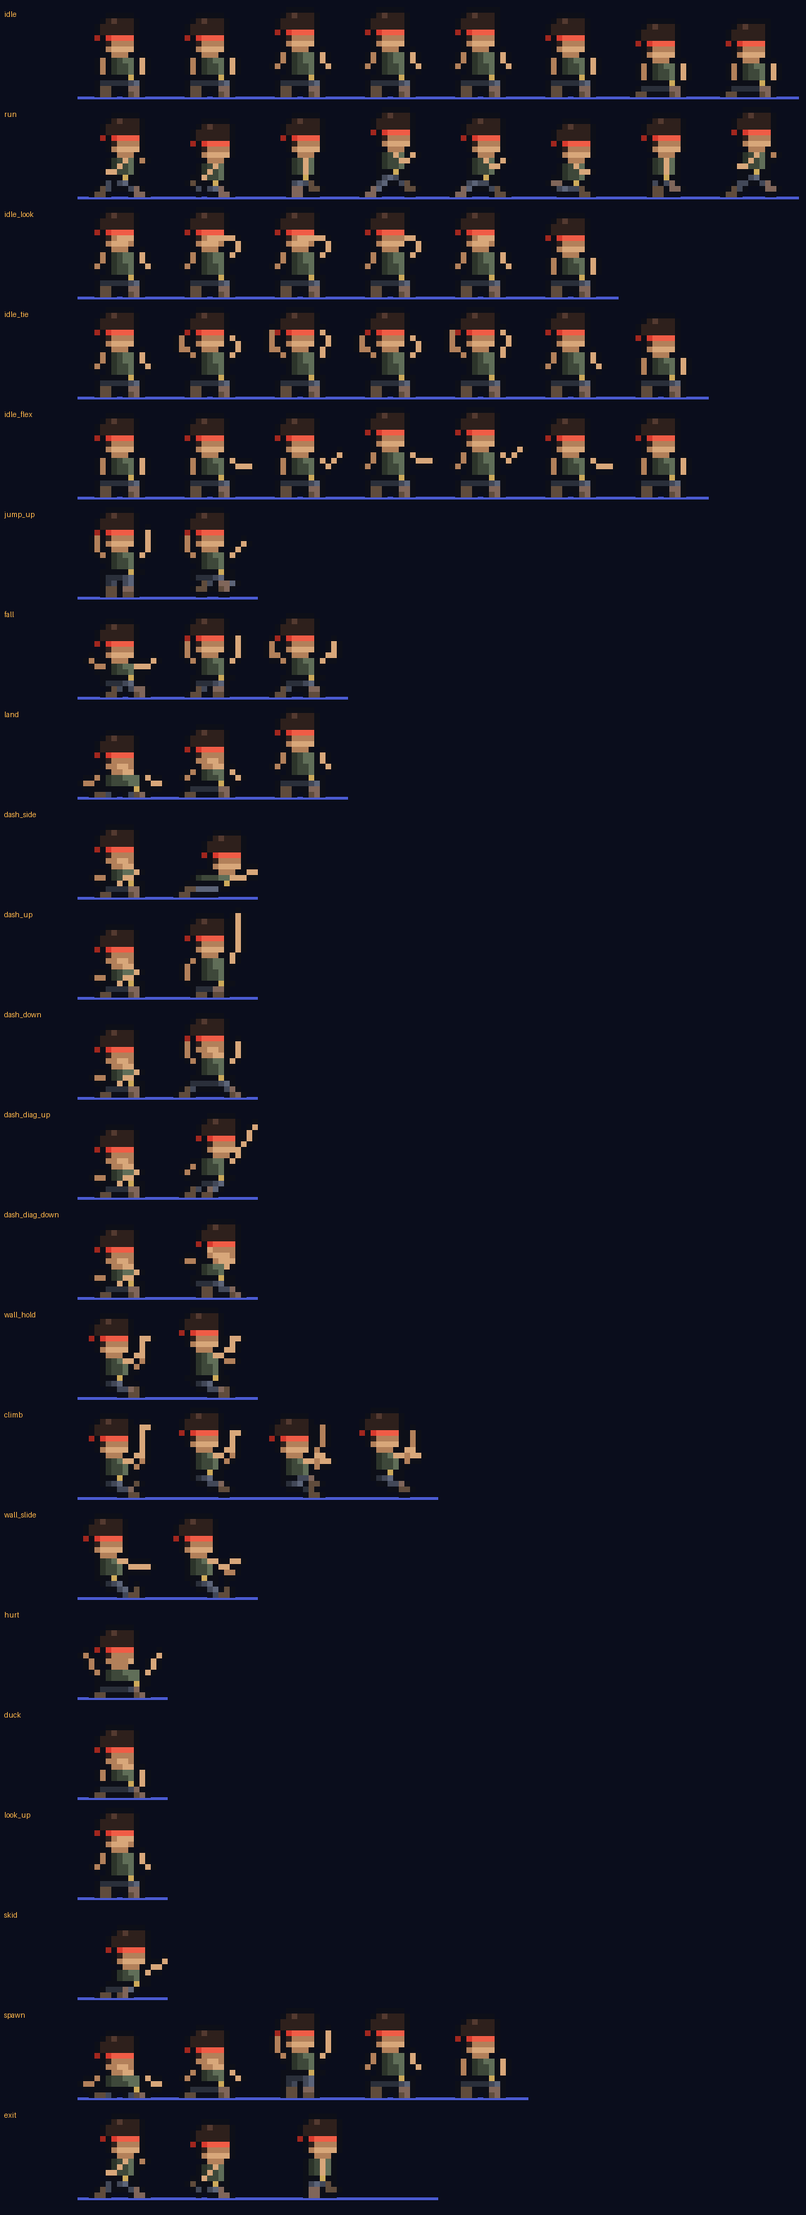
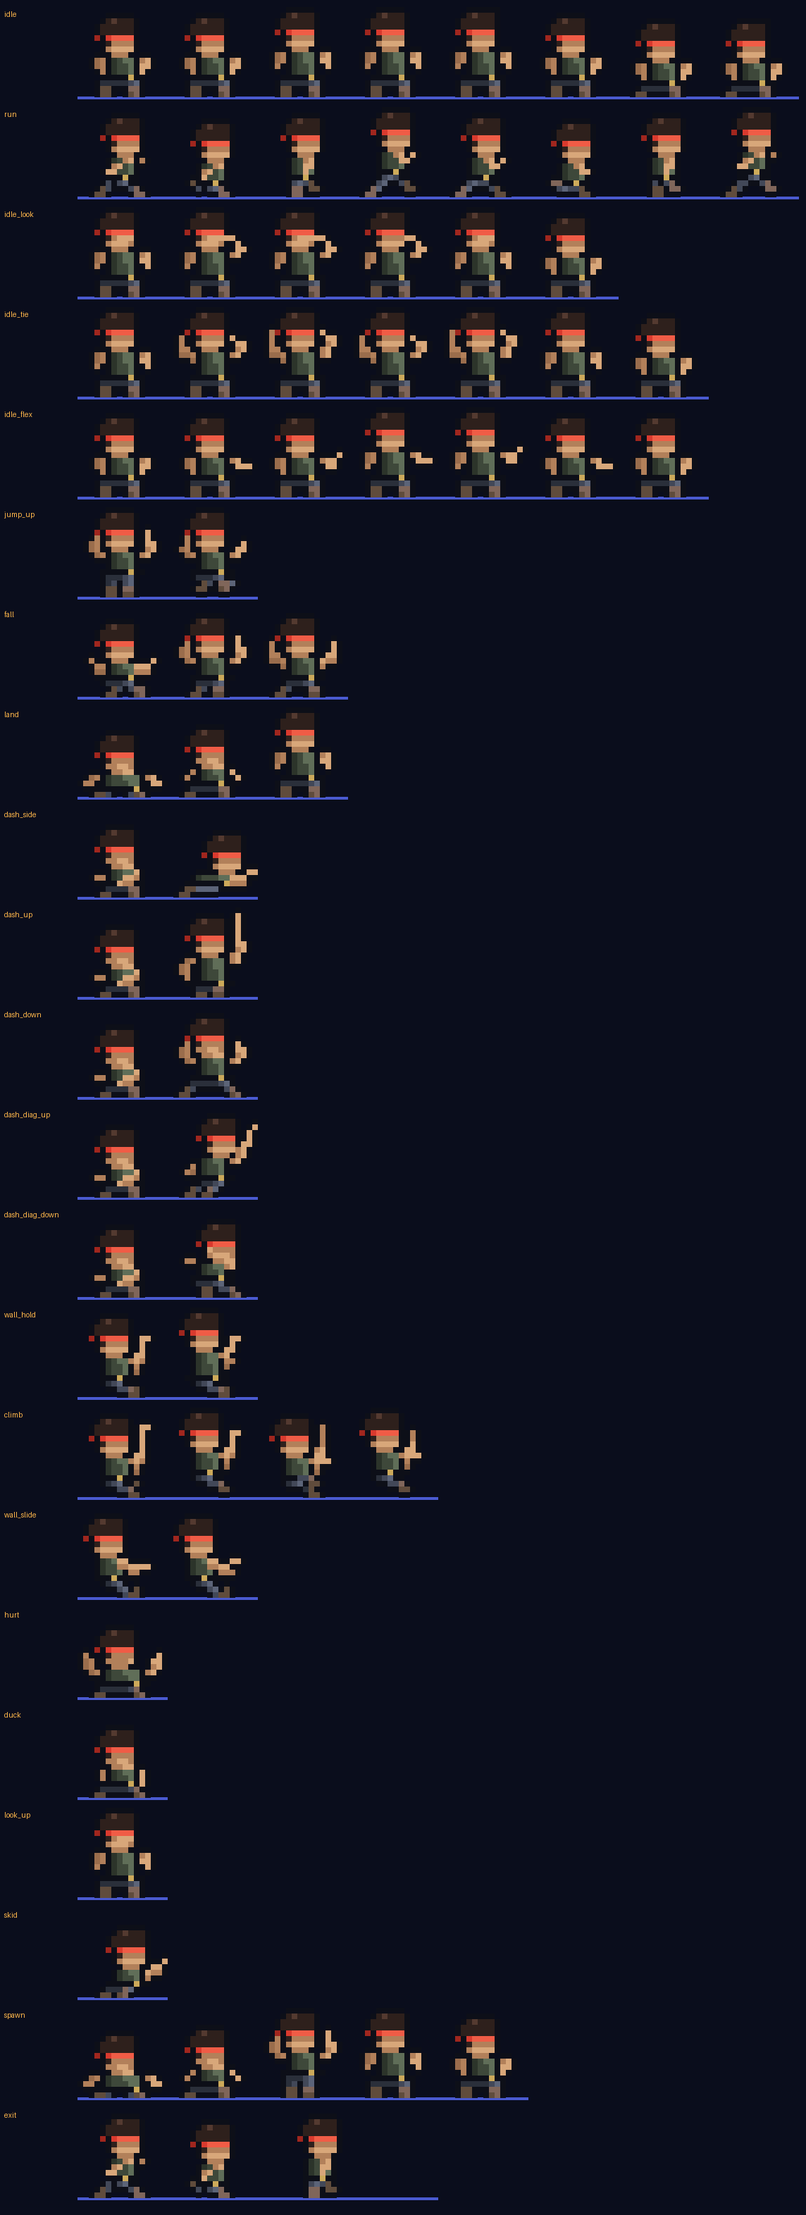
Hero: tapered, shaded arms instead of one-pixel lines
Upper arm two pixels thick, lit on the front or top and shadowed on the back or
underside, one pixel forearm and a lit hand. Far arm a shade darker (new tone T,
also dropped a tone when tired). Wall shoulders slimmed. audit.py fails flat
one-pixel arms (the previous art fails it 32 times).

Claude-Session: https://claude.ai/code/session_01VRuBUK3WgnmGAbAZYk17RK

Changed region(s): [[0.2753, 0.4987, 0.3059, 0.5299], [0.2753, 0.4052, 0.3059, 0.4364]]

diff --git a/builder/index.html b/builder/index.html
@@ -836,7 +836,7 @@
 
 
   // ---- hero sprite sheet: 16 x 16 frames, one row per animation, facing right (Lone climber: dark olive shirt, slate pants, red bandana (tails simulated in the game)) ----
[2 lines of base64/hex data omitted]
 
 
   // ---- worlds: each world is a theme and an ordered list of levels (shared by the game and the builder) ----

diff --git a/index.html b/index.html
@@ -636,7 +636,7 @@
 
 
   // ---- hero sprite sheet: 16 x 16 frames, one row per animation, facing right (Lone climber: dark olive shirt, slate pants, red bandana (tails simulated in the game)) ----
[2 lines of base64/hex data omitted]
 
 
   // ---- worlds: each world is a theme and an ordered list of levels (shared by the game and the builder) ----

diff --git a/src/shared-hero.js b/src/shared-hero.js
@@ -1,2 +1,2 @@
   // ---- hero sprite sheet: 16 x 16 frames, one row per animation, facing right (Lone climber: dark olive shirt, slate pants, red bandana (tails simulated in the game)) ----
[2 lines of base64/hex data omitted]

diff --git a/src/hero-wolf/draw.py b/src/hero-wolf/draw.py
@@ -14,7 +14,7 @@ C = {
     'o': '#0D0F18',                                   # outline
     'd': '#2E201C', 'D': '#543A30',                   # hair, hair tuft
     'B': '#F05C46', 'b': '#D93A2E', 'k': '#A0261E',   # bandana highlight, main, knot / shadow
-    's': '#D8A77A', 'S': '#B2805A',                   # skin, skin shadow
+    's': '#D8A77A', 'S': '#B2805A', 'T': '#9A6D4C',   # skin, skin shadow, far arm shadow
     'e': '#14101A',                                   # eye
     'H': '#606E58', 'h': '#3E483A', 'v': '#2C342A',   # shirt highlight, shirt, shirt shadow
     'y': '#CDAA5A',                                   # buckle
@@ -23,7 +23,7 @@ C = {
 }
 NAMES = {
     'o': 'Outline', 'd': 'Hair', 'D': 'Hair tuft', 'B': 'Bandana highlight', 'b': 'Bandana', 'k': 'Bandana knot',
-    's': 'Skin', 'S': 'Skin shadow', 'e': 'Eye', 'H': 'Shirt highlight', 'h': 'Shirt', 'v': 'Shirt shadow',
+    's': 'Skin', 'S': 'Skin shadow', 'T': 'Far arm shadow', 'e': 'Eye', 'H': 'Shirt highlight', 'h': 'Shirt', 'v': 'Shirt shadow',
     'y': 'Buckle', 'Q': 'Pants lit', 'P': 'Pants highlight', 'p': 'Pants', 'c': 'Boots', 'C': 'Boot highlight',
 }
 
@@ -163,6 +163,30 @@ class Pose:
                 for ax, ay in ((x - 1, y), (x, y - 1), (x, y + 1)):
                     if (ax, ay) not in mine and self.mask.get((ax, ay)) == sep: self.px(ax, ay, 'o', None)
         for x, y, ch in cells: self.px(x, y, ch, who)
+    def arm(self, pts, near):
+        # Arms taper like a real limb instead of a one-pixel line: the upper arm (shoulder to elbow) is two pixels
+        # thick and shaded, the forearm and hand are one pixel, the hand lit. Light comes from the upper front: on an
+        # upright stretch the front column is lit and the back one in shadow, on a level stretch the top row is lit and
+        # the row under it in shadow. An upright upper arm thickens away from the body's middle (column 7.5) so it
+        # never eats into the torso. The far arm is a shade darker all over.
+        lit, shade = ('s', 'S') if near else ('S', 'T')
+        who = 'na' if near else 'fa'; cells = {}
+        for i in range(len(pts) - 1):
+            (x0, y0), (x1, y1) = pts[i], pts[i + 1]
+            upright = abs(y1 - y0) >= abs(x1 - x0)
+            thick = i == 0 and len(pts) > 2
+            for x, y in line(pts[i], pts[i + 1]):
+                if (x, y) in cells and cells[(x, y)] == lit: continue
+                cells[(x, y)] = shade if thick and upright and ((x + 1 if x >= 7.5 else x - 1) > x) else lit
+                if not thick: continue
+                if upright:
+                    ox = x + 1 if x >= 7.5 else x - 1
+                    if ox > x: cells[(ox, y)] = lit                    # front column lit, this one the back
+                    else: cells.setdefault((ox, y), shade)
+                else: cells.setdefault((x, y + 1), shade)
+        cells[pts[-1]] = lit                                          # the hand
+        for (x, y), ch in cells.items(): self.px(x, y, ch, who)
+
     def boot(self, x, y, near, kind='flat', toe=1, leg=None):
         # Tall, narrow boots (two wide, the width of the leg): a sole on the given row and a cuff on the row above it,
         # where the boot covers the bottom of the leg. The boot sits under the end of the leg, never more than one
@@ -191,7 +215,7 @@ def pose(hip=12, tx=3, torso='mid', head='normal', hdx=0, near_leg=None, far_leg
     A boot is (x, y[, kind[, toe]]). The head is placed so its chin row is the row above the torso: it cannot float.
     near_behind: the near arm goes behind the head (hands at the back of the head). shift: move the whole pose sideways."""
     P = Pose(); t = TORSO[torso]; ty = hip - len(t) + 1
-    if far_arm: P.limb(far_arm, 'S', 'fa')
+    if far_arm: P.arm(far_arm, False)
     if far_leg: P.limb(far_leg, 'pP', 'fl', 2)
     if far_boot: P.boot(*far_boot[:2], False, *far_boot[2:], leg=far_leg)
     put(P.fr, t, tx, ty)
@@ -202,9 +226,9 @@ def pose(hip=12, tx=3, torso='mid', head='normal', hdx=0, near_leg=None, far_leg
         for x in range(min(xs), max(xs) + 1): P.px(x, hip + 1, 'p', 'hip')
     if near_leg: P.limb(near_leg, 'PQ', 'nl', 2, sep='fl')
     if near_boot: P.boot(*near_boot[:2], True, *near_boot[2:], leg=near_leg)
-    if near_arm and near_behind: P.limb(near_arm, 's', 'na')
+    if near_arm and near_behind: P.arm(near_arm, True)
     put(P.fr, HEAD[head], tx + hdx, ty - HEAD_H)
-    if near_arm and not near_behind: P.limb(near_arm, 's', 'na')
+    if near_arm and not near_behind: P.arm(near_arm, True)
     fr = outline(P.fr)
     if shift: fr = [(['.'] * shift + row)[:16] if shift > 0 else (row[-shift:] + ['.'] * -shift) for row in fr]
     return fr
@@ -281,7 +305,7 @@ DASH_DIAG_DOWN = pose(hip=12, tx=3, torso='short', head='down', hdx=2, far_leg=[
 def wall(dy, near_hand, far_hand, near_foot, far_foot, torso='side', tx=2):
     hip = 12 + dy; top = hip - len(TORSO[torso]) + 1
     return pose(hip=hip, tx=tx, torso=torso,
-                far_arm=[(7, top), (10, top + 1), (11, far_hand)], near_arm=[(8, top), (11, top - 1), (11, near_hand), (12, near_hand)],
+                far_arm=[(8, top), (10, top + 1), (11, far_hand)], near_arm=[(9, top), (10, top - 1), (11, top - 2), (11, near_hand), (12, near_hand)],
                 far_leg=[(5, hip + 1), (8, far_foot - 1)], far_boot=(10, far_foot, 'toe'), near_leg=[(6, hip + 1), (8, near_foot - 1)], near_boot=(10, near_foot, 'toe'))
 CLIMB = [
     wall(0, 3, 9, 15, 13),     # near hand high, far knee up
@@ -366,14 +390,14 @@ def run_frame(k):
     lead_arm, other_arm = [[(x, top + y) for x, y in a] for a in RUN_ARMS[ph]]
     near_arm, far_arm = (lead_arm, other_arm) if near_leads else (other_arm, lead_arm)
     P = Pose(); t = TORSO['side']; ty = hip - len(t) + 1; tx = 3
-    P.limb(far_arm, 'S', 'fa')
+    P.arm(far_arm, False)
     leg_grid(P, far, False)
     put(P.fr, t, tx, ty)
     for x in range(16):
         for y in range(ty, hip + 1): P.mask.pop((x, y), None)
     leg_grid(P, near, True)
     put(P.fr, HEAD['normal'], tx + 1, ty - HEAD_H)
-    P.limb(near_arm, 's', 'na')
+    P.arm(near_arm, True)
     return outline(P.fr)
 
 

diff --git a/src/hero-wolf/audit.py b/src/hero-wolf/audit.py
@@ -11,6 +11,8 @@
 #   run cycle      side-on body; the two boots swap front and back (a real stride), the arms swing against the legs,
 #                  the body bobs, and no two frames in a row are the same
 #   squash/stretch landing and spawn start shorter than standing, take-off is taller or the same
+#   arms           arms are shaded limbs, not one-pixel lines: in the idle every arm shows a lit and a shadow tone and
+#                  is two pixels thick somewhere (the upper arm)
 #   feet           boots are tall and narrow: no boot is more than 2 px wide on any row (no skateboard feet)
 #   wall           on the wall animations the hands reach the wall face and the climb alternates hands
 import json, os, sys
@@ -82,6 +84,16 @@ GROUNDED = ['idle', 'idle_look', 'idle_tie', 'idle_flex', 'run', 'land', 'skid',
 for name in GROUNDED:
     for i, g in enumerate(FR[name]):
         if not is_blank(g) and not [x for x, y in cells(g, 'cC') if y == 15]: bad(name, 'frame %d: no boot on the ground row (feet float)' % i)
+
+# ---- arms: shaded and with some thickness ----
+for i, g in enumerate(FR['idle']):
+    sk = [(x, y, c) for x, y, c in body(g) if c in 'sST']
+    for side, xs in (('near', range(10, 16)), ('far', range(0, 6))):
+        arm = [(x, y, c) for x, y, c in sk if x in xs]
+        tones = {c for x, y, c in arm}; rows = {}
+        for x, y, c in arm: rows.setdefault(y, []).append(x)
+        if len(tones) < 2: bad('idle', 'frame %d: the %s arm is one flat tone (no shading)' % (i, side))
+        if not any(len(v) >= 2 for v in rows.values()): bad('idle', 'frame %d: the %s arm is a one-pixel line' % (i, side))
 
 # ---- boots: tall and narrow, never a long flat slab ----
 for name, frames in FR.items():

diff --git a/src/make-hero.py b/src/make-hero.py
@@ -24,7 +24,7 @@ ROLES = {
     'hero-wolf': {
         'spent': '#5A5F6E',                                                   # band goes slate grey when there is not enough stamina to dash
         'spentPairs': [['#F05C46', '#6E7382'], ['#D93A2E', '#5A5F6E'], ['#A0261E', '#40444F']],   # every shade of the band, not just one
-        'tired': [['#606E58', '#3E483A'], ['#3E483A', '#2C342A'], ['#D8A77A', '#B2805A'], ['#B2805A', '#8C6244']],   # low stamina: shirt and skin drop a tone
+        'tired': [['#606E58', '#3E483A'], ['#3E483A', '#2C342A'], ['#D8A77A', '#B2805A'], ['#B2805A', '#8C6244'], ['#9A6D4C', '#7A5238']],   # low stamina: shirt and skin drop a tone (far arm too)
         'trail': ['#D93A2E', '#D8A77A'], 'burst': ['#d93a2e', '#d8a77a'],     # afterimages and the death burst: bandana red, then skin
         'chain': { 'can': ['#D93A2E', '#F05C46'], 'spent': ['#5A5F6E', '#6E7382'], 'tired': ['#C47F24', '#FFB74A'], 'flash': '#FFFFFF', 'hair': '#543A30' },   # the simulated tails and the lock of hair
     },

diff --git a/CLAUDE.md b/CLAUDE.md
@@ -28,7 +28,7 @@ A single-screen precision platformer for a wall-mounted Android display (the "fr
 - Temple (world 4, theme `jungle`): the Death Fight Forever inspired world. Cyan sky with a stepped pyramid and palms (`skyline: 'pyramid'`), acid yellow stone with heavy mortar and glyph marks, vines as edge art, crates, hanging vines, pink flare torches and glyph blocks as decals, pink accent. Temple pieces: `L` is a laser emitter, a floor box that fires a three tile magenta beam on the jet cycle (same `jets` list, `laser: true`); `O` is a patrol drone that rides a `-` track like a fireball, pauses at each end and fires a three tile beam straight down only at its home end (`drones`, `stepDrones`, `droneBeam`). In `gen.js` a jet obstacle becomes a laser when `lasers` is on, and `drone` lays a four tile ceiling track with the drone's home at the far end so the auto-player runs under while it is away. `OWN` in gen.js lists every world-only piece. Levels are `SET4` in build.js plus the tall `The Pyramid`.
 - Neon Row (world 5, theme `neon`): the night city. Violet to magenta sky with a `towers` skyline that fills the screen: three rows of separate buildings with streets between them (`cityRow` in `drawSky`: far row hazed toward the sky, near row darkest, roof masts and tanks, a warm haze and a lamp post at the foot of each street), windows lit in clusters (a building picks its lit floors and lights run in groups along a floor), one pale beam tower, cloud bands, sagging overhead cables, still diagonal rain baked in, steel and concrete walls with panel seams and rivets, a lit cyan kerb strip along every top edge (`strip`/`stripLo` in `roughen`), a dark office-window backdrop (`backKind: 'windows'`), decals: air-con units, vending boxes, cable bundles, magenta tube lamps, vent grilles. Signs: `placeSigns` in `shared-tiles.js` hash-places small lit rectangles (a frame, a dim line, 2 to 5 glyphs of the made-up `GLYPHS` alphabet, four colours) on backdrop runs, inside wall masses and on the far towers (`SKY_SIGNS`, set by `drawSky`), baked lit into the static layer with a glow. Each sign has a kind: still, buzz (one glyph drops out for two ticks), pulse (a three second breath), scroll, cycle (two colours), and six far windows blink (`dot`). The game keeps only the animated ones in `signs` and `stepSigns` in `render` repaints a sign only when `signFrame` changes (one dirty rect, one chunk), so animation costs a few small blits; nothing strobes (no state change faster than 3 per second, dim never below 40 percent). Pieces: `w` is a spark on a cable (a fireball, `spark: true`, `drawSpark`) and `%` a holo sign (a jet with `holo: true`, `drawHoloBase`/`drawHoloWarn`/`drawHolo`); in `gen.js` the `wires` piece makes the fireball obstacle place `w` and `holos` makes the jet obstacle place `%`, so the auto-player's existing recipes cover both. Levels are `SET5` in build.js plus the tall `The Tower`. Not yet seen on the frame: sign readability, sky banding, FPS with signs animating.
 - Furnace (world 3) pieces: `F` is a flame on the ground (a hazard like spikes, drawn animated each frame from the `flames` list) and `*` is a fireball that flies along `-` or `|` track tiles the way platforms do, but passes through everything and burns on touch (`findFireballs`, `stepFireballs`). `J` is a fire jet: a floor vent that fires a three tile column on a fixed cycle (`P.jetOff`/`jetWarn`/`jetOn`, offset per column, `jetPhase`), deadly only while it burns. `~` is lava: everything below the top lava tile, and after `P.lavaDelay` it rises at `P.lavaRise` px/s (`lava`), reset on respawn; the auto-builder puts it under the first floor of a tall Furnace room. In `gen.js`, floor spikes become flames in the Furnace, `fireball` is an obstacle the auto-player times a run under, and `jet` is one it waits out.
-- Hero: `HERO_CHOICE` at the top of `src/make-hero.py` picks the character (`lantern` drawn in code, or a sprite pack folder such as `hero-mustache` or `hero-wolf`). To switch: change that line, run `python3 make-hero.py` in `src/`, then `node src/build.js`. A new pack needs a `ROLES` entry for its recolour and effect colours. The current hero is `hero-wolf`, the lone climber: its strips are generated by `src/hero-wolf/draw.py` from parts (edit the parts, run it, then make-hero and build). Its head is a thin band no wider than the face, hair tufts up and out the back, a nose pixel, no eyes. Every frame is posed with `pose()`: the hand-drawn head always sits on the torso (chin row on the row above it, so it can never float), the torso sits on the belt row, and arms and legs are lines between joints, layered far arm, far leg, torso, near leg, head, near arm (far limbs a shade darker, near leg lit `Q`), then one outline pass. Boots are tall and narrow (Celeste-like proportions, original pixels): two wide, the width of the leg, a sole plus a cuff over the bottom of the leg, and `Pose.boot` snaps each boot under the end of its leg (at most one pixel ahead or behind) so feet never stick out like a board. The run is eight side-on frames (contact, down, pass, up, then the other leg; legs hand-pixelled in `RUN_LEGS`, arms swing against them, the body bobs two rows), the idle breathes (chest rises with head and shoulders, then the knees give a pixel). An animation may play once and then loop from a frame (`loopFrom` in the manifest, `from` in `HERO.anims`, used by `fall`: apex, then a two frame flail), and the run's stride slows with the speed. **After any change run `python3 audit.py` in `src/hero-wolf`**: the sprite quality test (one piece per frame, no empty row or column, knot present and behind the face, boots on the ground row in grounded animations, head on the torso, idle body moves, run boots swap and arms swing against the legs, squash and stretch heights, hands on the wall face, no boot wider than 2 px). It must PASS. `preview.py` writes `preview.gif`, every animation at its real speed. Its bandana tails are not in the sheet: the game simulates them as two five-node chains drawn as one-pixel lines about six pixels long (`stepChain`/`drawChain`, `chain.a`/`chain.b`) hung from the knot pixels, whose position per frame comes from the manifest (`anchors`), plus a short lock of hair (`chain.h`, colour `chain.hair`) off the back of the head that streams in a run. The chain colour is the dash state (`ROLES[...].chain`): red when a dash is available, grey when spent, white flash on refill, amber pulse when tired. `spentPairs` lets a pack recolour several shades when the dash is spent. Motion on top of the frames (all in `drawHeroState`, render only, physics untouched): squash and stretch as one scale about the feet (`squash`/`easeScale`; only ever a stretch of up to 1.5, never a shrink, because shrinking a 16 px sprite drops the one-pixel legs and the boots look detached: a jump stretches tall, a landing stretches wide, a dash stretches along its direction; the buffer draws sprites with smoothing off), idle one-shots `idle_look`/`idle_tie`/`idle_flex` after 3 s still (one loop in five, weights 5/3/1), and death as a ring burst in bandana red with the body fading to a silhouette (`drawDeath`). Also render only: `duck`, `look_up` and `skid` poses picked from the held input (`pl.inX`/`pl.inY`), and dust puffs (`puff`/`drawDust`) on hard landings, run starts, skids and wall slides.
+- Hero: `HERO_CHOICE` at the top of `src/make-hero.py` picks the character (`lantern` drawn in code, or a sprite pack folder such as `hero-mustache` or `hero-wolf`). To switch: change that line, run `python3 make-hero.py` in `src/`, then `node src/build.js`. A new pack needs a `ROLES` entry for its recolour and effect colours. The current hero is `hero-wolf`, the lone climber: its strips are generated by `src/hero-wolf/draw.py` from parts (edit the parts, run it, then make-hero and build). Its head is a thin band no wider than the face, hair tufts up and out the back, a nose pixel, no eyes. Every frame is posed with `pose()`: the hand-drawn head always sits on the torso (chin row on the row above it, so it can never float), the torso sits on the belt row, and arms and legs are lines between joints (arms via `Pose.arm`: tapered and shaded, a two pixel upper arm lit on the front or top and shadowed on the back or underside, a one pixel forearm and a lit hand; the far arm uses `S` and `T`), layered far arm, far leg, torso, near leg, head, near arm (far limbs a shade darker, near leg lit `Q`), then one outline pass. Boots are tall and narrow (Celeste-like proportions, original pixels): two wide, the width of the leg, a sole plus a cuff over the bottom of the leg, and `Pose.boot` snaps each boot under the end of its leg (at most one pixel ahead or behind) so feet never stick out like a board. The run is eight side-on frames (contact, down, pass, up, then the other leg; legs hand-pixelled in `RUN_LEGS`, arms swing against them, the body bobs two rows), the idle breathes (chest rises with head and shoulders, then the knees give a pixel). An animation may play once and then loop from a frame (`loopFrom` in the manifest, `from` in `HERO.anims`, used by `fall`: apex, then a two frame flail), and the run's stride slows with the speed. **After any change run `python3 audit.py` in `src/hero-wolf`**: the sprite quality test (one piece per frame, no empty row or column, knot present and behind the face, boots on the ground row in grounded animations, head on the torso, idle body moves, run boots swap and arms swing against the legs, squash and stretch heights, hands on the wall face, no boot wider than 2 px, idle arms shaded and two pixels thick somewhere). It must PASS. `preview.py` writes `preview.gif`, every animation at its real speed. Its bandana tails are not in the sheet: the game simulates them as two five-node chains drawn as one-pixel lines about six pixels long (`stepChain`/`drawChain`, `chain.a`/`chain.b`) hung from the knot pixels, whose position per frame comes from the manifest (`anchors`), plus a short lock of hair (`chain.h`, colour `chain.hair`) off the back of the head that streams in a run. The chain colour is the dash state (`ROLES[...].chain`): red when a dash is available, grey when spent, white flash on refill, amber pulse when tired. `spentPairs` lets a pack recolour several shades when the dash is spent. Motion on top of the frames (all in `drawHeroState`, render only, physics untouched): squash and stretch as one scale about the feet (`squash`/`easeScale`; only ever a stretch of up to 1.5, never a shrink, because shrinking a 16 px sprite drops the one-pixel legs and the boots look detached: a jump stretches tall, a landing stretches wide, a dash stretches along its direction; the buffer draws sprites with smoothing off), idle one-shots `idle_look`/`idle_tie`/`idle_flex` after 3 s still (one loop in five, weights 5/3/1), and death as a ring burst in bandana red with the body fading to a silhouette (`drawDeath`). Also render only: `duck`, `look_up` and `skid` poses picked from the held input (`pl.inX`/`pl.inY`), and dust puffs (`puff`/`drawDust`) on hard landings, run starts, skids and wall slides.
 - Wall moves follow Celeste's released Player.cs numbers (scaled by K): the wall slide starts slow and ramps to a full fall over `wallSlideTime`; a wall jump with no direction held is a neutral jump (no forced push); jumping during a straight-up dash beside a wall is a wall bounce (`bounceH`/`bounceV`, no extra stamina); a climb jump followed by pushing away within `wallBoostTime` refunds its stamina and becomes a wall jump; jumping during a sideways dash on the ground is a super (`superH`, full jump height) or, holding down, a hyper (`hyperH`, half height). `tests/moves.js` covers all of these.
 - Rooms are one or two screens tall (48 or 96 rows). The game draws the whole room into a `world` layer of chunks and scrolls a tall room by sliding that layer with a transform (`applyCam`, snap on spawn), never by repainting. `RH` is the room height, `LH` the screen. The builder's Height select changes rows; `gen.js` takes `opts.rows`. Three tall built-in levels sit at slot 9 of each world. `tests/talltest.js` covers the camera, springs, the gem and the height toggle.
 - Zip movers (`z`): painted like a platform on the same `-`/`|` tracks, but it waits where it is until you stand on it, then shoots to the far end (`P.zipSpeed`), rests, and crawls back (`zs` is its state: idle, go, rest, back). In `gen.js` a ferry or lift becomes a zip when the `zips` piece is on (`zipPick`); the auto-player treats an idle zip like a waiting platform.
